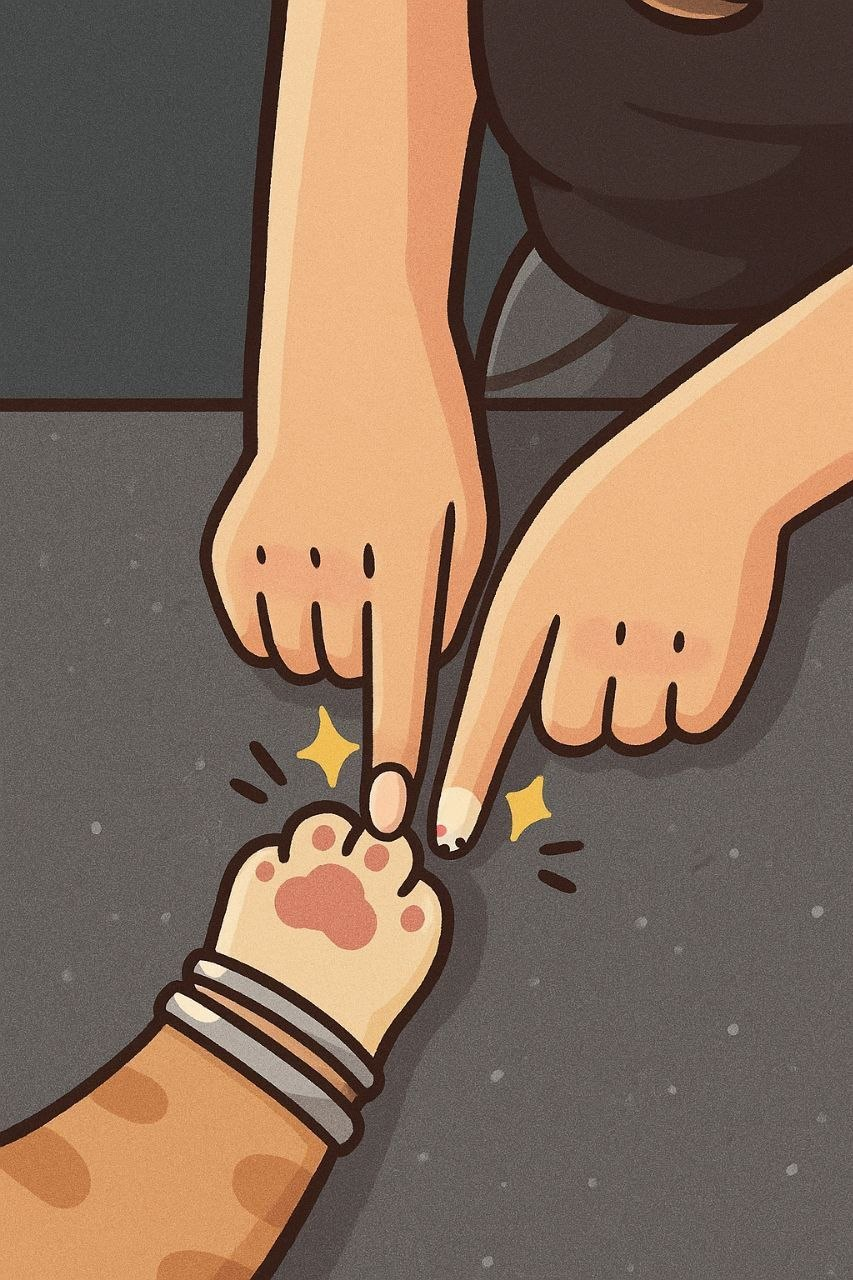
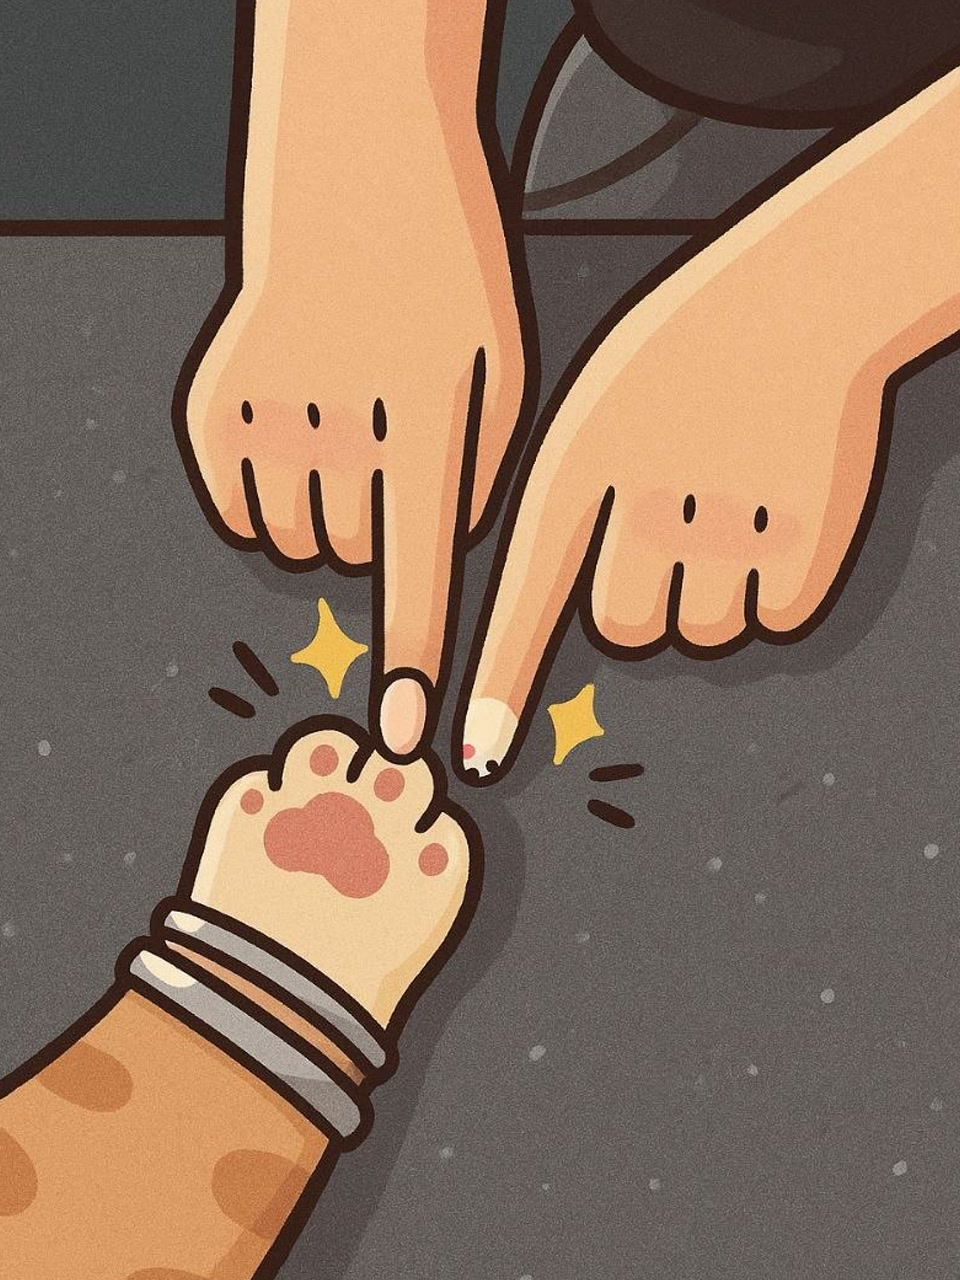
align finger

diff --git a/style.css b/style.css
@@ -55,6 +55,7 @@ body {
   z-index: 0;
   overflow: hidden;
   pointer-events: none;
+  animation: unifiedDrift 20s ease-in-out infinite alternate;
 }
 
 .slide {
@@ -68,22 +69,20 @@ body {
   background-repeat: no-repeat;
   opacity: 0;
   transition: opacity 2.8s cubic-bezier(0.4, 0, 0.2, 1);
-  transform: scale(1);
-  will-change: transform, opacity;
+  will-change: opacity;
   filter: brightness(0.88) contrast(1.05);
 }
 
 .slide.slide-active {
   opacity: 0.85;
-  animation: kenburns 16s ease-in-out infinite alternate;
 }
 
-@keyframes kenburns {
+@keyframes unifiedDrift {
   0% {
     transform: scale(1) translate(0, 0);
   }
   100% {
-    transform: scale(1.04) translate(-0.8%, -1%);
+    transform: scale(1.03) translate(-0.5%, -0.8%);
   }
 }
 
